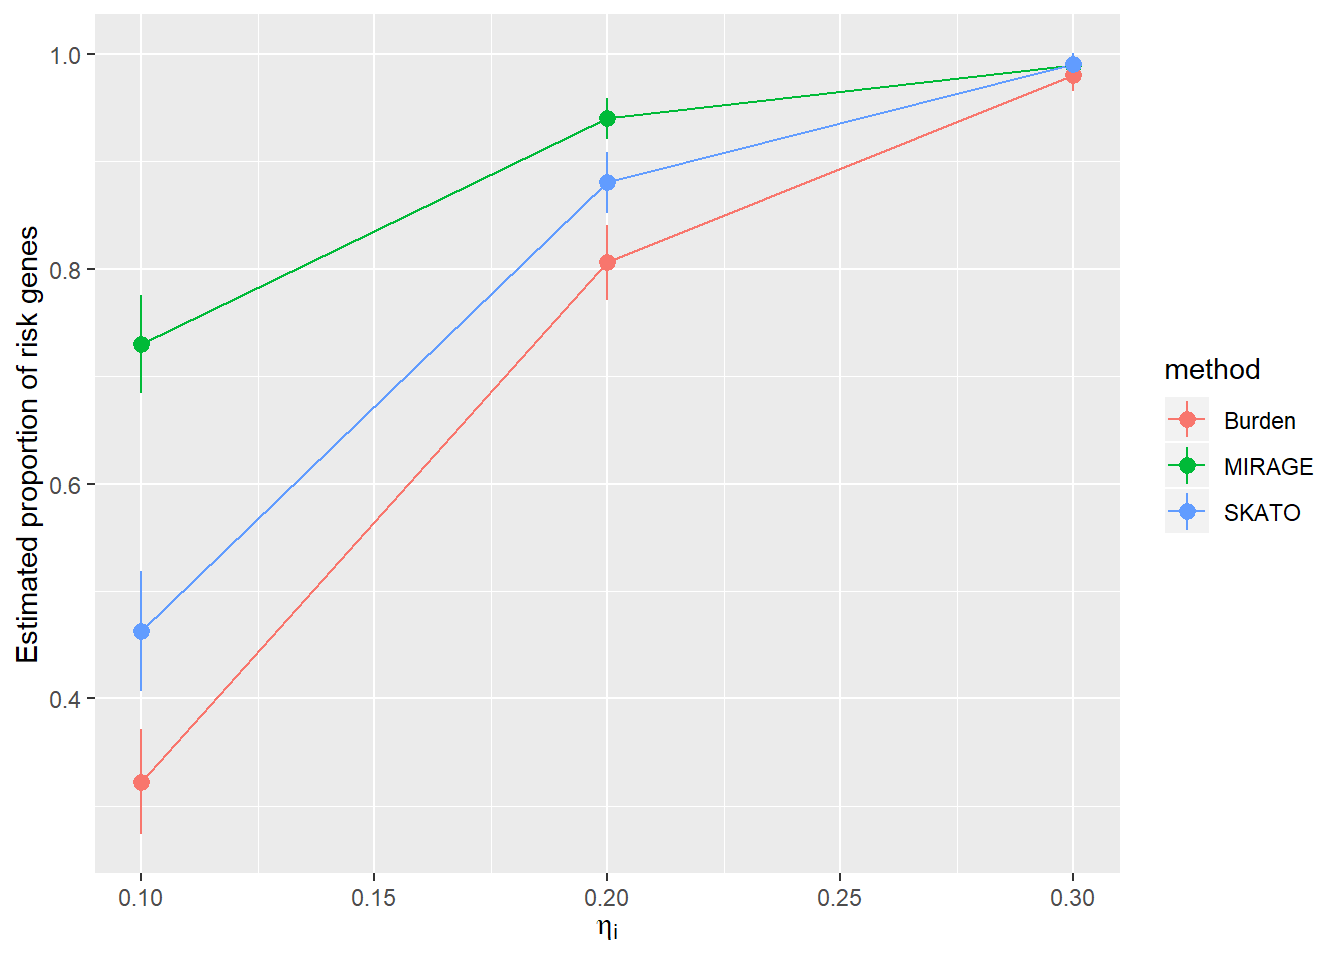
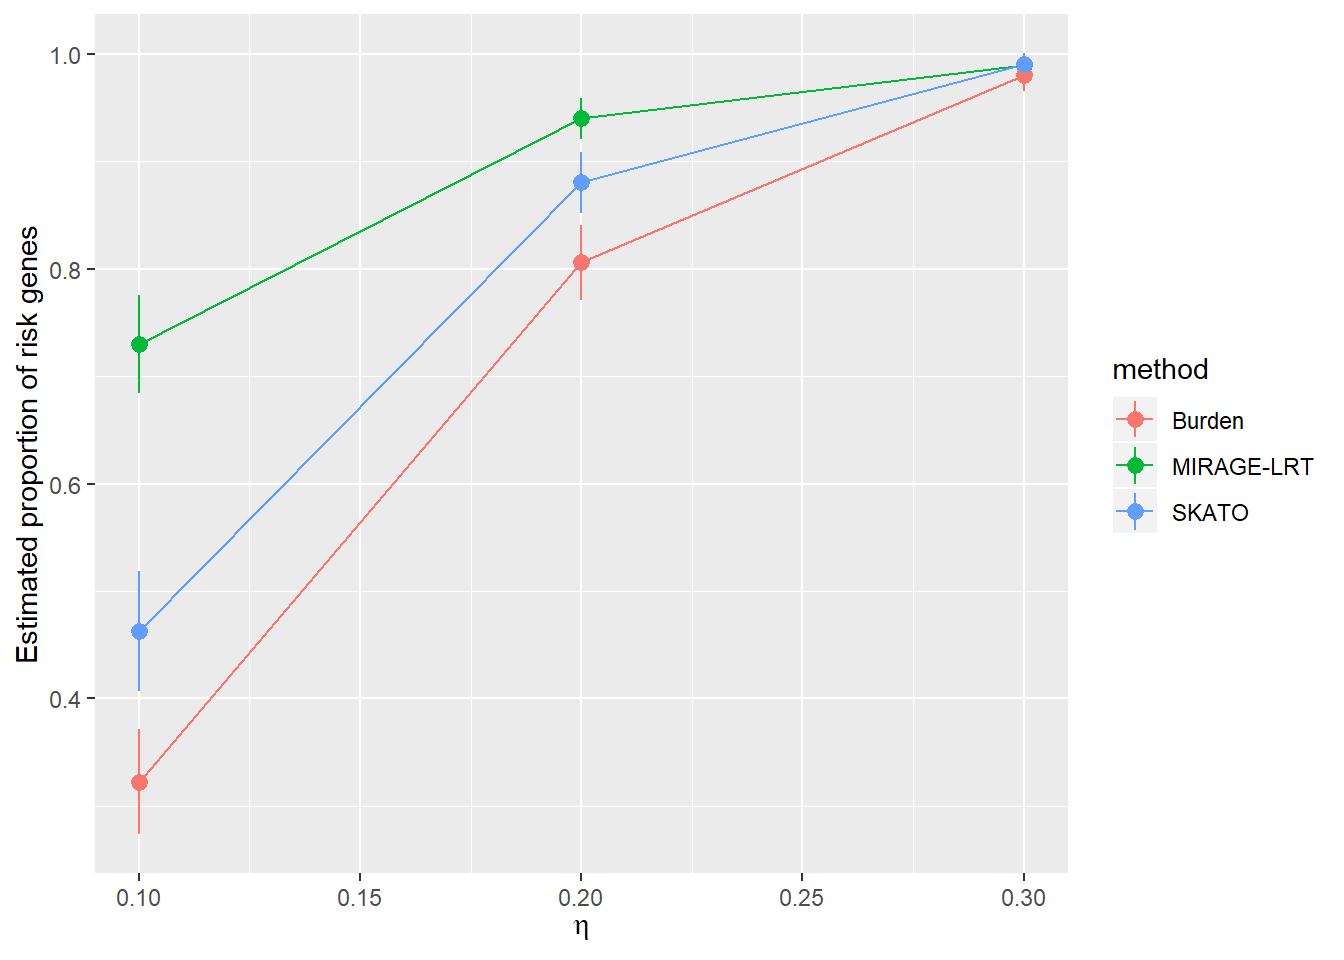
Jan82019

diff --git a/docs/simulation-study.html b/docs/simulation-study.html
@@ -314,6 +314,7 @@ div.tocify {
 </div>
 
 
+<pre><code>## Warning: package &#39;matrixStats&#39; was built under R version 3.5.2</code></pre>
 <!-- Add your analysis here -->
 <div id="data-generation" class="section level2">
 <h2>Data Generation</h2>
@@ -347,20 +348,28 @@ div.tocify {
 <div id="only-estimate-eta-fix-delta1" class="section level4">
 <h4>(1) only estimate <span class="math inline">\(\eta\)</span>, fix <span class="math inline">\(\delta=1\)</span></h4>
 <ul>
-<li>relative risk effect, <span class="math inline">\(\bar{\gamma}\)</span> on estimating <span class="math inline">\(\eta\)</span></li>
+<li>parameter estimate: (I) relative risk effect, <span class="math inline">\(\bar{\gamma}\)</span> on estimating <span class="math inline">\(\eta\)</span></li>
 </ul>
+<p>Since variant groups are assumed to be independent, it suffices to demonstrate the parameter estimate only for one risk variant group.</p>
 <p>Parameter settings: N1=N0=3000, <span class="math inline">\(\alpha=\alpha_0=0.1\)</span>, <span class="math inline">\(\beta=2000, \beta_0=1000\)</span>. 100 genes, each having 1000 variants with <span class="math inline">\(\eta_i=0.1\)</span> risk variants, but the actural <span class="math inline">\(\eta_i\)</span> is varying for each generated data set because of the filtering. <span class="math inline">\(\bar{\gamma}=2,3,4,5\)</span> and with each <span class="math inline">\(\bar{\gamma}\)</span>, perform 100 independent runs.</p>
 <ul>
-<li>sample size effect on estimating <span class="math inline">\(\eta\)</span></li>
+<li>Parameter estimate (II): sample size effect on estimating <span class="math inline">\(\eta\)</span></li>
 </ul>
 <p>Parameter settings: N1=N0=1000, 3000, 5000, <span class="math inline">\(\alpha=\alpha_0=0.1\)</span>, <span class="math inline">\(\beta=2000, \beta_0=1000\)</span>. 100 genes, each having 1000 variants with <span class="math inline">\(\eta_i=0.1\)</span> risk variants, but the actural <span class="math inline">\(\eta_i\)</span> is varying for each generated data set because of the filtering. <span class="math inline">\(\bar{\gamma}=5\)</span>. For each fixed sample size, perform 100 independent runs.</p>
 <p><img src="simulation-study_files/figure-html/unnamed-chunk-6-1.png" width="672" /></p>
 <ul>
 <li>power comparison with other methods</li>
 </ul>
-<p>Parameter settings: N1=N0=3000 <span class="math inline">\(\alpha=\alpha_0=0.1\)</span>, <span class="math inline">\(\beta=2000, \beta_0=1000\)</span>. 100 genes, each having 1000 variants with <span class="math inline">\(\eta_i=0.1, 0.2, 0.3\)</span> risk variants, but the actural <span class="math inline">\(\eta_i\)</span> is varying for each generated data set because of the filtering. <span class="math inline">\(\bar{\gamma}=5\)</span>. For every <span class="math inline">\(\eta_i\)</span>, perform 100 independent runs.</p>
-<p>For every simulated risk gene, three different methods are used to test if it is a risk gene or not. Significance level of 0.05 is used as cutoff. The proportion of risk genes correctly detected is plotted. Burnden test looks at the variant in cases and controls and performs the enrichment analysis. SKATO tests the significance of effect size and generate p value. MIRAGE first estimates the parameter <span class="math inline">\(\eta\)</span>, then does a likelihood ratio test and returns p value.</p>
+<p>For every simulated risk gene, three different methods are used to test the power of detecting risk genes. Significance level of 0.05 is used as cutoff. Burnden test looks at the variants in cases and controls and performs the enrichment analysis for every gene. SKATO tests the significance of effect size and generate p value without covariates. MIRAGE-LRT first estimates the parameter <span class="math inline">\(\eta\)</span>, then does a likelihood ratio test and returns p value by <span class="math inline">\(\chi^2_k\)</span> (<span class="math inline">\(k\)</span> is the number of unknown parameters <span class="math inline">\(\eta\)</span>).</p>
+<p><strong>Case 1: every risk gene only has one risk variant group with the proportion of <span class="math inline">\(\eta\)</span> and fixed <span class="math inline">\(\bar{\gamma}\)</span></strong></p>
+<p>Parameter settings: N1=N0=3000 <span class="math inline">\(\alpha=\alpha_0=0.1\)</span>, <span class="math inline">\(\beta=2000, \beta_0=1000\)</span>. 100 genes, each having 1000 variants with <span class="math inline">\(\eta=0.1, 0.2, 0.3\)</span> risk variants, but the actural <span class="math inline">\(\eta\)</span> is varying for each generated data set because of the filtering. <span class="math inline">\(\bar{\gamma}=5\)</span>. For every <span class="math inline">\(\eta\)</span>, perform 100 independent runs.</p>
 <p><img src="simulation-study_files/figure-html/unnamed-chunk-8-1.png" width="672" /></p>
+<p><strong>Case 2: every risk gene has multiple risk variant groups with varying proportion of <span class="math inline">\(\eta\)</span> and fixed <span class="math inline">\(\bar{\gamma}\)</span></strong></p>
+<p>Parameter settings: N1=N0=3000 <span class="math inline">\(\alpha=\alpha_0=0.1\)</span>, <span class="math inline">\(\beta=2000, \beta_0=1000\)</span>. 100 genes, each having 1000 variants in three different groups, the first group has 30% variant, the second has 40% and the rest 30% are in the third group. In each group of every gene, the proportion of risk genes <span class="math inline">\(\eta\)</span> is varying at 0.01, 0.05, 0.1 respectively. <span class="math inline">\(\bar{\gamma}=2, 3,4, 5\)</span>. For every <span class="math inline">\(\bar{\gamma}\)</span>, perform 100 independent runs.</p>
+<p><img src="simulation-study_files/figure-html/unnamed-chunk-10-1.png" width="672" /></p>
+<p><strong>Case 3: every risk gene has multiple risk variant groups with varying proportion of <span class="math inline">\(\eta\)</span> and varying <span class="math inline">\(\bar{\gamma}\)</span></strong></p>
+<p>Parameter settings: N1=N0=3000 <span class="math inline">\(\alpha=\alpha_0=0.1\)</span>, <span class="math inline">\(\beta=2000, \beta_0=1000\)</span>. 100 genes, each having 1000 variants in three different groups, the first group has 30% variants, the second has 40% and the rest 30% are in the third group. In each variant group of every gene, the proportion of risk variants <span class="math inline">\(\eta\)</span> is varying at 0.01, 0.05, 0.1 and every risk category has its own <span class="math inline">\(\bar{\gamma}=5, 3,1\)</span> respectively. The bsaic idea is that the rarer the varinat is, the more effect size it tends to have. Perform 100 independent runs.</p>
+<p><img src="simulation-study_files/figure-html/unnamed-chunk-12-1.png" width="672" /></p>
 </div>
 <div id="estimate-both-beta-delta" class="section level4">
 <h4>(2) estimate both <span class="math inline">\(\beta, \delta\)</span></h4>
